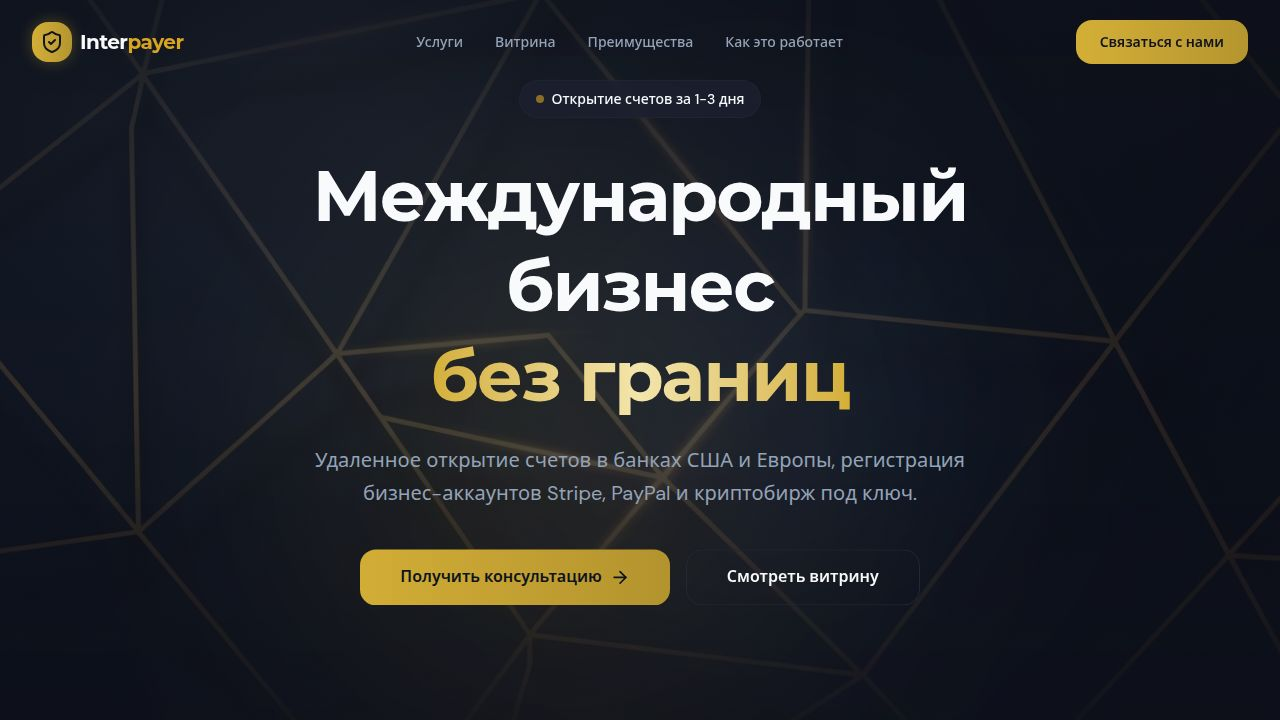
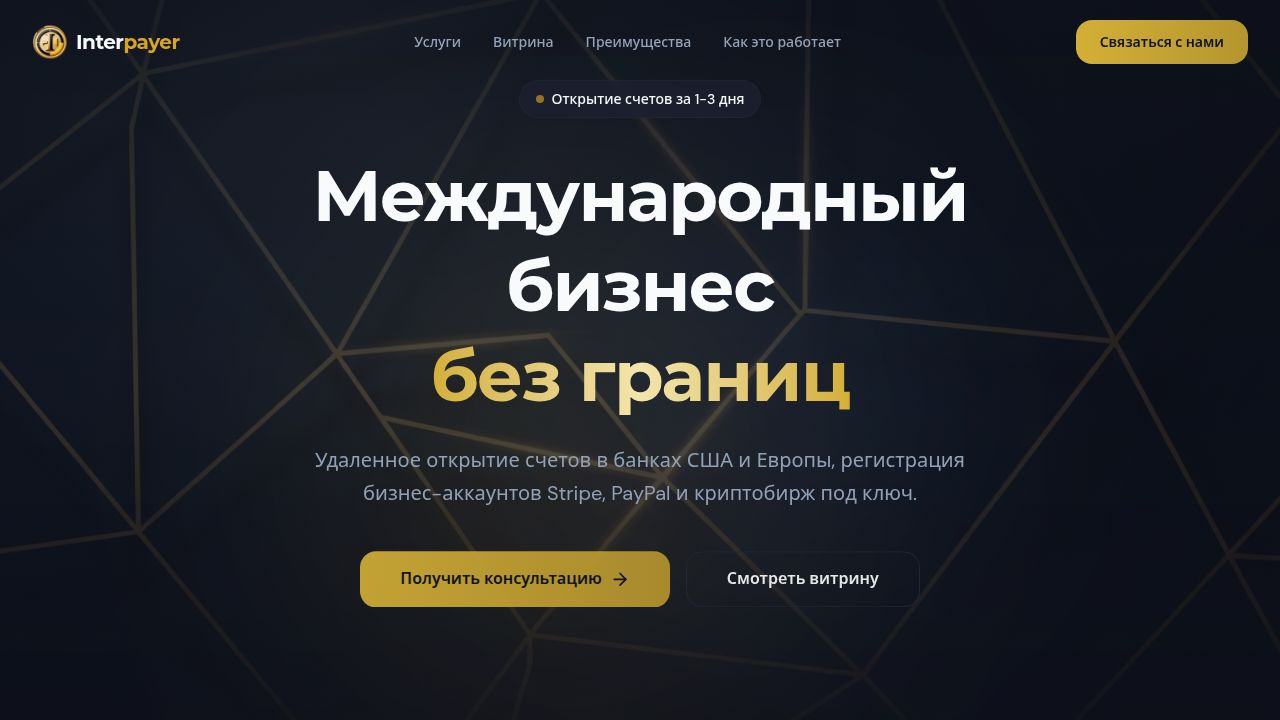
Improve website's mobile appearance and functionality
Adjust hero section font sizes for mobile, update footer logo, and ensure responsive grid layouts for all sections.

Replit-Commit-Author: Agent
Replit-Commit-Session-Id: 3d35d2df-78a5-4a7a-aefa-a1f99c2aba44
Replit-Commit-Checkpoint-Type: full_checkpoint
Replit-Commit-Event-Id: 7581b4e4-646e-40b3-94cd-70b25383189b
Replit-Commit-Screenshot-Url: https://storage.googleapis.com/screenshot-production-us-central1/46fe6971-85ca-4876-9915-d661b6d44156/3d35d2df-78a5-4a7a-aefa-a1f99c2aba44/ArSFSS4
Replit-Helium-Checkpoint-Created: true

diff --git a/artifacts/interpayer/src/components/sections/Hero.tsx b/artifacts/interpayer/src/components/sections/Hero.tsx
@@ -40,7 +40,7 @@ export function Hero() {
           initial={{ opacity: 0, y: 20 }}
           animate={{ opacity: 1, y: 0 }}
           transition={{ duration: 0.6, delay: 0.1 }}
-          className="font-display text-5xl md:text-7xl font-bold tracking-tight text-foreground max-w-4xl leading-tight mb-6"
+          className="font-display text-3xl sm:text-5xl md:text-7xl font-bold tracking-tight text-foreground max-w-4xl leading-tight mb-6"
         >
           Международный бизнес <br className="hidden md:block"/>
           <span className="text-gradient-gold">без границ</span>
@@ -50,7 +50,7 @@ export function Hero() {
           initial={{ opacity: 0, y: 20 }}
           animate={{ opacity: 1, y: 0 }}
           transition={{ duration: 0.6, delay: 0.2 }}
-          className="text-lg md:text-xl text-muted-foreground max-w-2xl mb-10 leading-relaxed"
+          className="text-base sm:text-lg md:text-xl text-muted-foreground max-w-2xl mb-10 leading-relaxed px-2 sm:px-0"
         >
           Удаленное открытие счетов в банках США и Европы, регистрация бизнес-аккаунтов Stripe, PayPal и криптобирж под ключ.
         </motion.p>

diff --git a/artifacts/interpayer/src/components/layout/Footer.tsx b/artifacts/interpayer/src/components/layout/Footer.tsx
@@ -1,5 +1,5 @@
 import React from 'react';
-import { ShieldCheck, Mail, Phone, MapPin } from 'lucide-react';
+import { Mail, Phone, MapPin } from 'lucide-react';
 
 export function Footer() {
   return (
@@ -9,9 +9,11 @@ export function Footer() {
           
           <div className="col-span-1 md:col-span-2">
             <div className="flex items-center gap-2 mb-6">
-              <div className="flex h-8 w-8 items-center justify-center rounded-lg bg-gradient-gold">
-                <ShieldCheck className="h-5 w-5 text-primary-foreground" />
-              </div>
+              <img
+                src={`${import.meta.env.BASE_URL}images/logo.png`}
+                alt="Interpayer"
+                className="h-8 w-8 object-contain"
+              />
               <span className="font-display text-xl font-bold tracking-tight text-foreground">
                 Inter<span className="text-primary">payer</span>
               </span>
